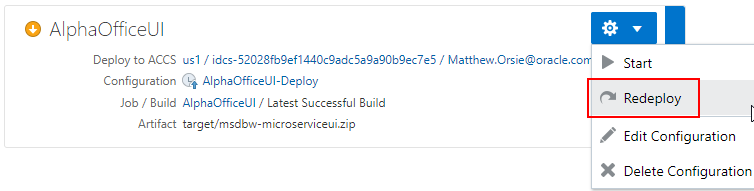
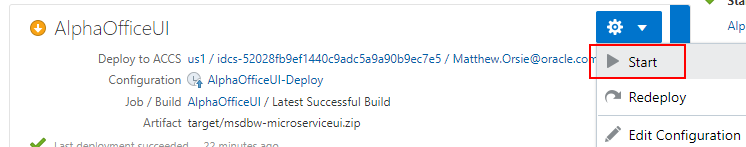
updates

diff --git a/workshops/devcs-mysql/Lab200.md b/workshops/devcs-mysql/Lab200.md
@@ -168,13 +168,15 @@ Application Name: AlphaOfficeREST
 
   ![](images/200/25.PNG)
 
-- The `AlphaOfficeUI` deployment will be displayed. Select **Redeploy** from the drop down actions menu. Click **Deploy** at the prompt.
+- The `AlphaOfficeREST` deployment will be displayed. Select **Start** from the drop down actions menu. If prompted, click **Deploy**.
 
   ![](images/200/26.PNG)
 
 **NOTE:** The build field stipulates which build to use for the deployment.
 
 - **The deployment connects to the Application Container Cloud Service in your Trial Account and attempts to deploy the application into a container** (Docker in this case). It may be several minutes before it is completed.
+
+- Example screen shot of a Redeploy
 
 ![](images/200/27.PNG)
 
@@ -198,7 +200,7 @@ Application Name: AlphaOfficeREST
 
   ![](images/200/29.PNG)
 
-  ![](images/200/3-2.PNG)
+  ![](images/200/30.PNG)
 
 - Add the following suffix to the application URL:
 
@@ -374,7 +376,7 @@ Application Name: AlphaOfficeUI
 
   ![](images/200/41.PNG)
 
-- The `AlphaOfficeREST` deployment will be displayed. Select **Redeploy** from the drop down actions menu. Click **Deploy** at the prompt.
+- The `AlphaOfficeUI` deployment will be displayed. Select **Start** from the drop down actions menu. If prompted, click **Deploy**.
 
   ![](images/200/42.PNG)
 
@@ -382,9 +384,11 @@ Application Name: AlphaOfficeUI
 
 - **The deployment connects to the Application Container Cloud Service in your Trial Account and attempts to deploy the application into a container** (Docker in this case). It may be several minutes before it is completed.
 
+- Example screen shot of a Redeploy
+
 ![](images/200/43.PNG)
 
-- **NOTE: If you get an error on the first Start or Deployment do a Redeploy**.
+- **NOTE: If you get an error on the first Start or Deployment do a Redeploy**. (example shown)
 
   ![](images/200/27-2.PNG)
 
@@ -394,53 +398,20 @@ Application Name: AlphaOfficeUI
 
   ![](images/200/27-6.PNG)
 
+- Deployment should be successful:
+
+  ![](images/200/44.PNG)
+
 - You can check the deployment inside the Application Container Cloud Service Console by going to the main Dashboard and clicking on the Application Container **hamburger menu**, right-clicking on **Open Service Console** and selecting **Open link in new tab**.
   
   ![](images/200/28.PNG)
 
-  ![](images/200/28-2.PNG)
+  ![](images/200/45.PNG)
 
-- Back in the Developer project Deploy screen right-click on the `AlphaOfficeREST` deployment and select **Open link in new tab**. It will show the RESTClient application.
+- Back in the Developer project Deploy screen right-click on the `AlphaOfficeUI` deployment and select **Open link in new tab**. It will show the AlphaOffice application.
 
-  ![](images/200/29.PNG)
+  ![](images/200/46.PNG)
 
-  ![](images/200/3-2.PNG)
+  ![](images/200/47.PNG)
 
-
-
-
-
-- **Type** the following:
-
-```
- cd
- docker version
-```
-
-The information on your docker engine should be displayed:
-
-![](images/100Linux/Picture100-2.png)
-
-
-
-
-
-
-
-
-
-
-
-
-
-
-
-
-
-
-
-
-
-
-
-**This completes the Lab, you can continue to Lab 200**
+**This completes the Lab, you can continue to Lab 300**
